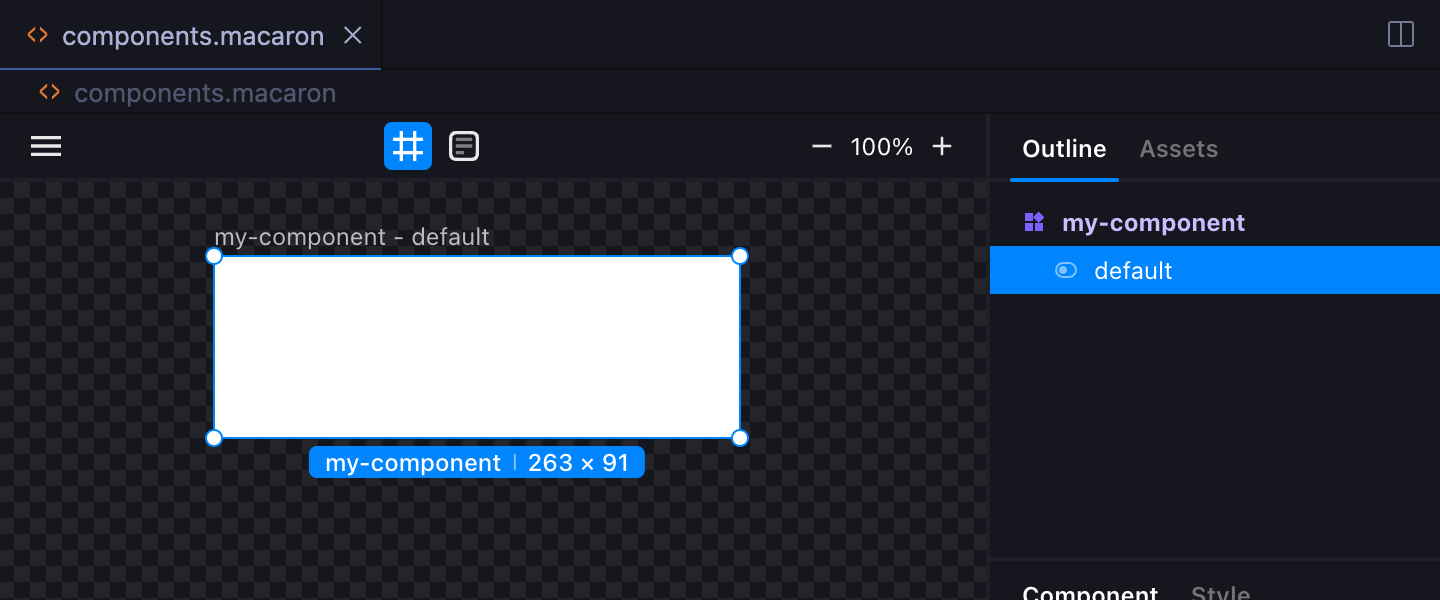
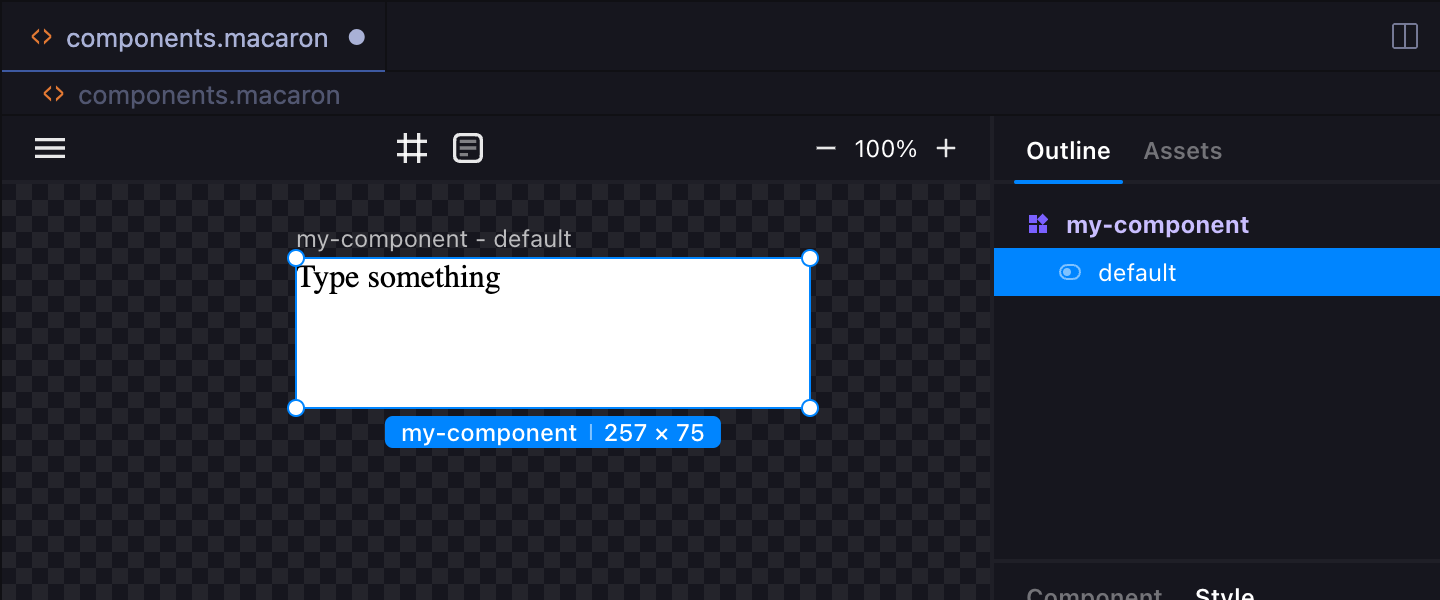
Simplify

diff --git a/packages/docs/guide/index.md b/packages/docs/guide/index.md
@@ -29,17 +29,13 @@ The editor UI of Macaron is shown in a tab instead of the normal text editor of 
 
 ## Create a simple component
 
-Click **Frame** button in the top toolbar and draw a frame in the viewport.
+Click **Text** button in the top toolbar and draw a frame in the viewport.
 
-A component named `my-component` is created in the document.
+It creates a component named `my-component` with some text content.
 
 <img srcset="./images/create-component.png 2x" />
 
-### Add a text element and edit style
-
-Click **Text** button in the top toolbar and draw a text element in the component.
-
-You may want to change the font or the color of the text. Select **Style** tab in the side bar and you can edit the style of the selected element.
+You may want to change the font or the color of the text. Select **Style** tab in the side bar and you can edit the style.
 
 <img srcset="./images/edit-style.png 2x" />
 
